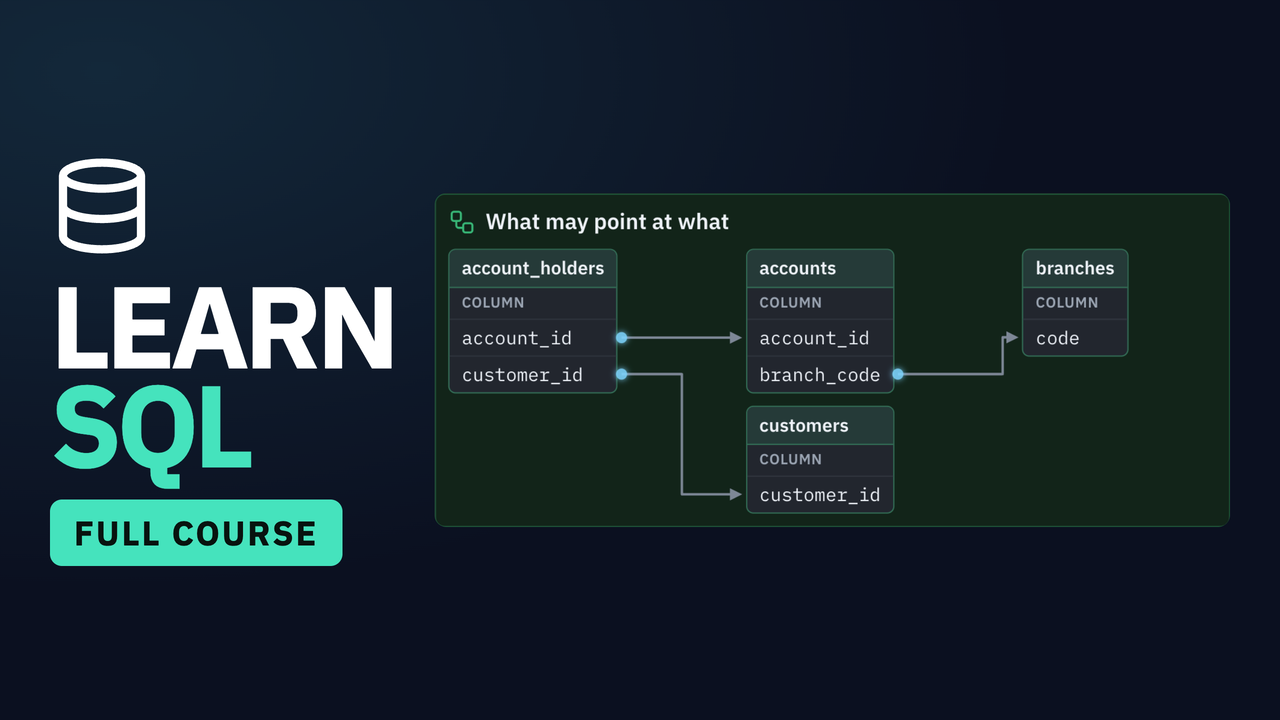
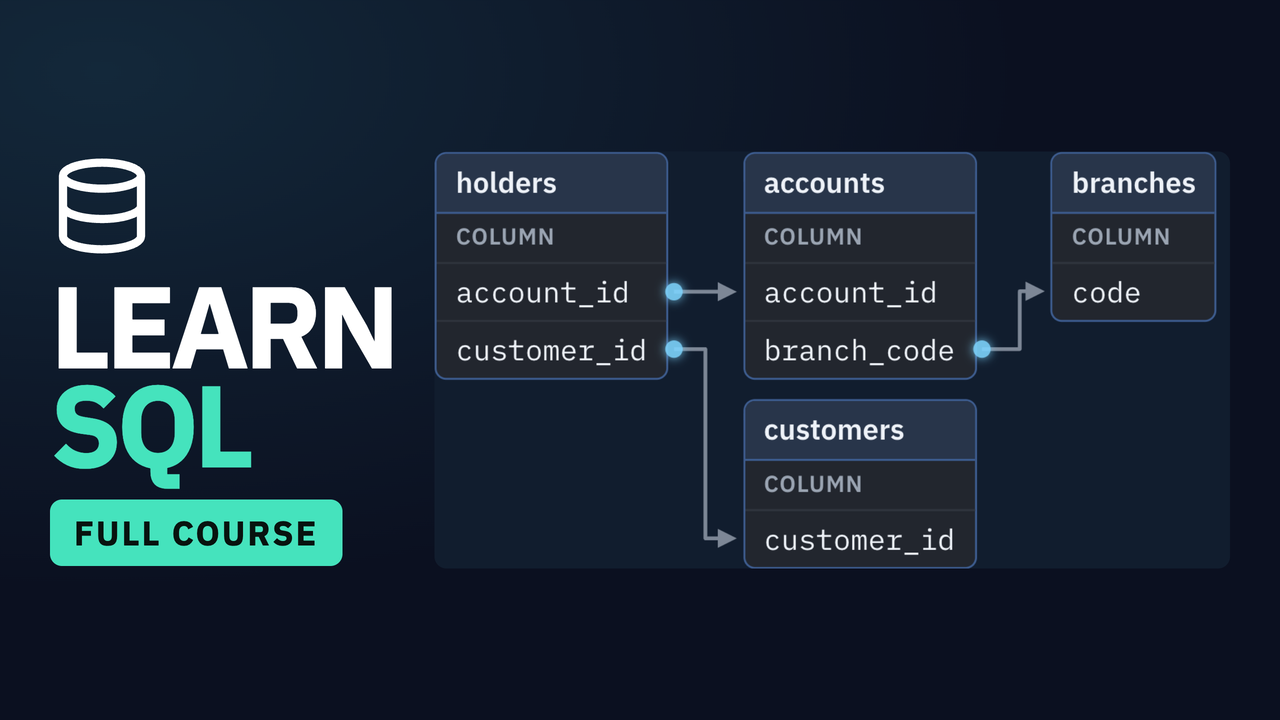
Frame v2 re-record: every course at 4K, film re-cut, cover rebuilt

Changed region(s): [[0.3125, 0.2139, 0.9688, 0.7944], [0.6875, 0.3361, 0.7188, 0.3667]]

diff --git a/CLAUDE.md b/CLAUDE.md
@@ -24,6 +24,9 @@ every frame looked at. No audio yet (narration is text).
 
 **2026-11-09: IDE frame v2** (COURSE-PLAN Decision 5): all 52 IDE sections on graphl-flow 0.11's
 shared grid; the 4 timeline frames and the concept frames unchanged. No narration changed.
+2026-11-12: every course re-recorded at 4K on v2 (segment cache and `scripts/out/` cleared first:
+the cache's fingerprint covers audio and encoding, not the scene, so a frame change needs
+`--force` or an empty cache) and the film re-cut, 1:28:44.
 
 Things learned while authoring, now rules:
 - PostgreSQL 18's `EXPLAIN ANALYZE` includes BUFFERS by default; the hit/read split depends on the
